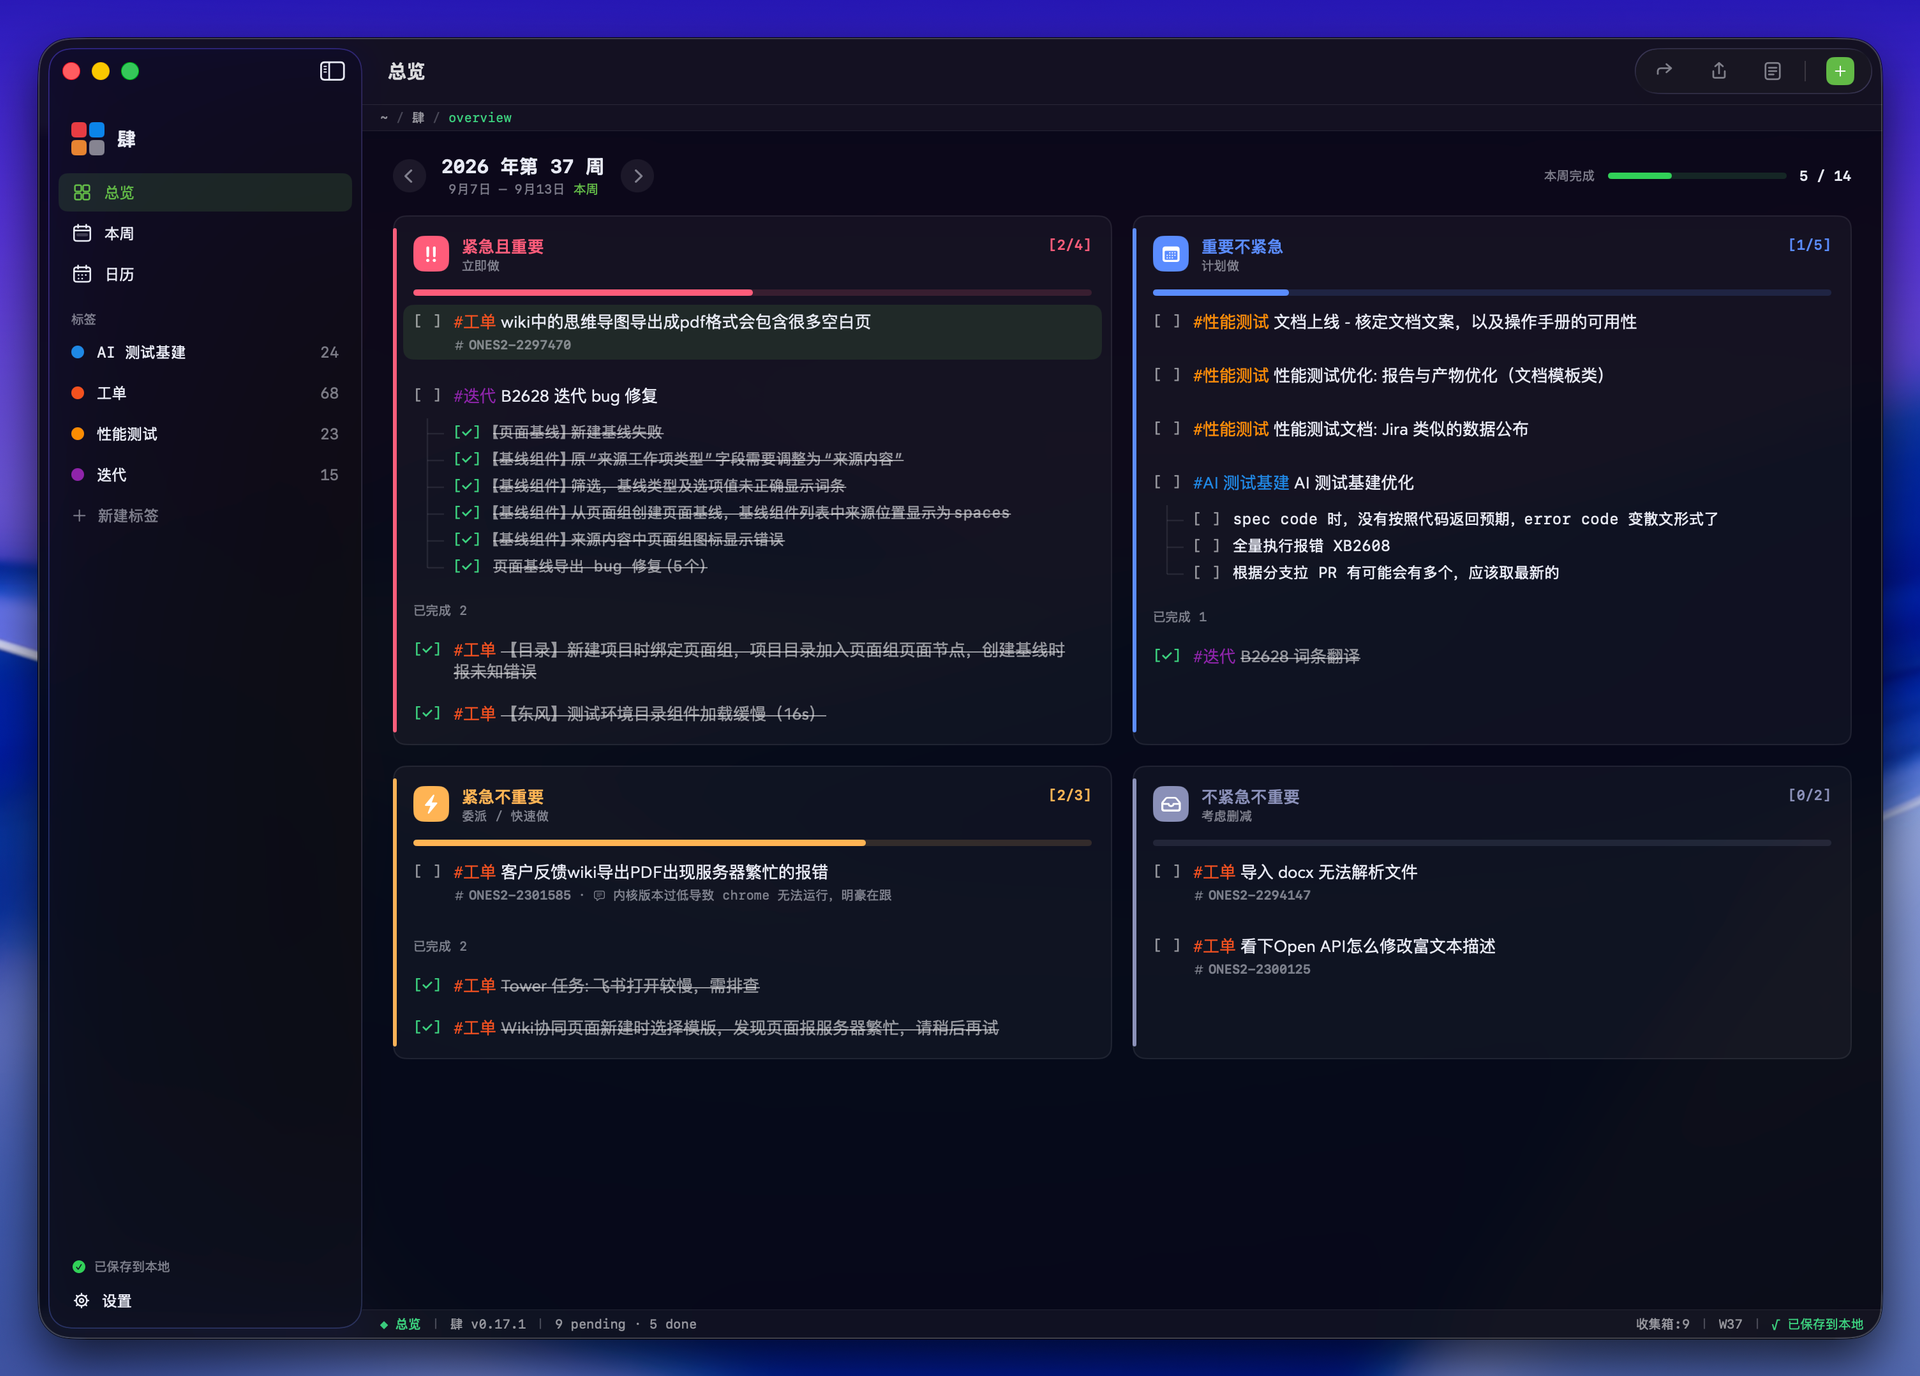
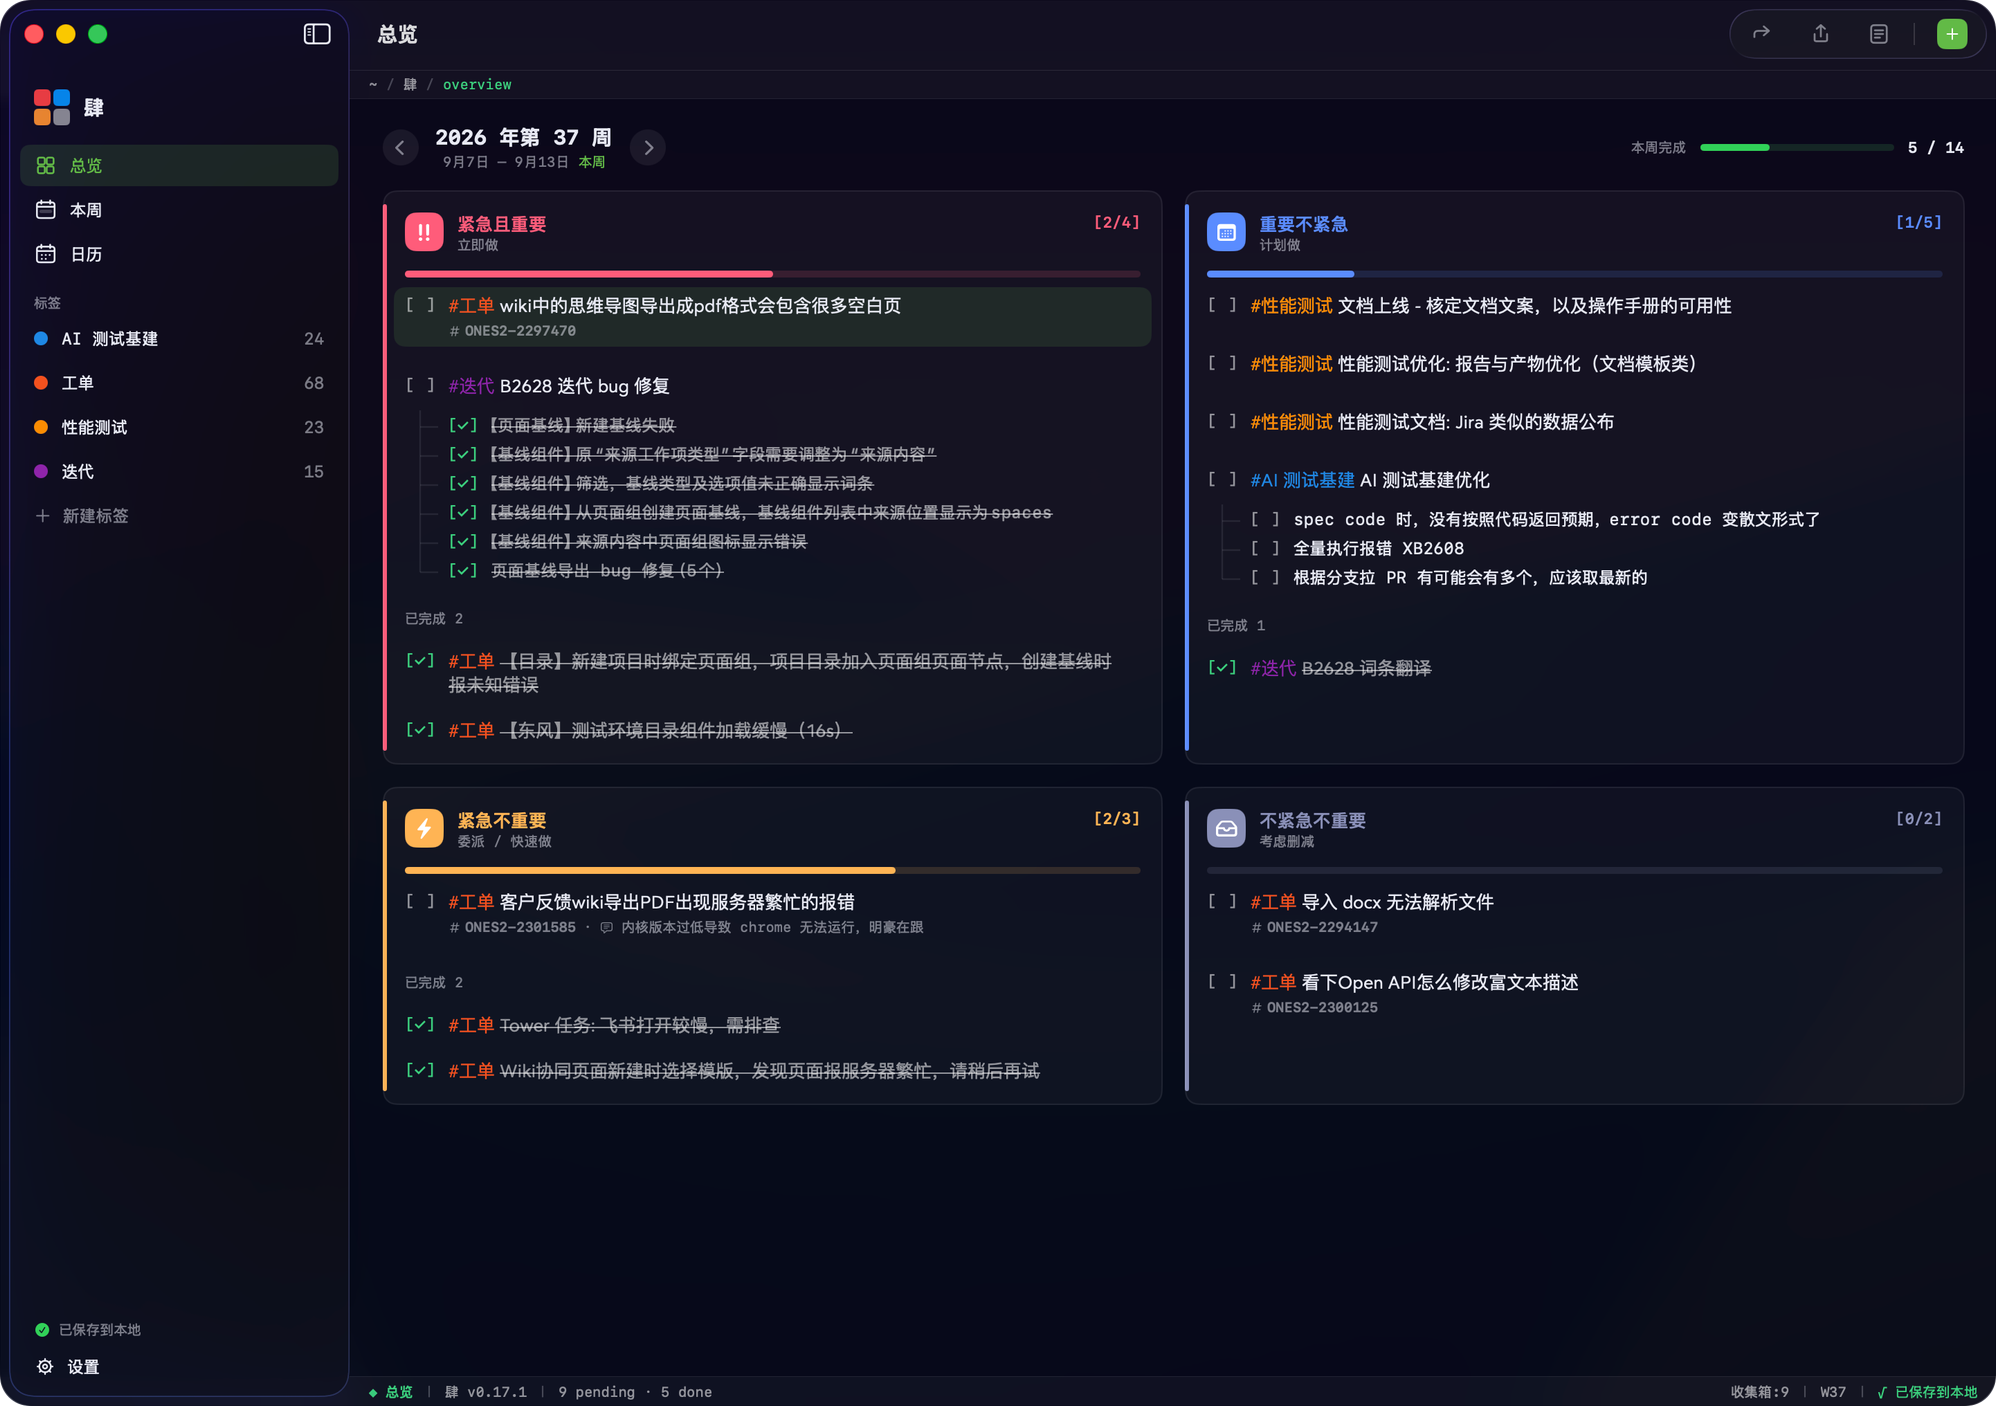
Blend the FourQuadrants screenshot into the page
The previous shot carried a band of desktop wallpaper around the window,
which read as a foreign rectangle dropped onto the page rather than part
of it.

Use a window-only capture, trim the 2px of wallpaper still clinging to
the straight edges, and bake transparent rounded corners into the PNG at
the window's own 30px radius so the page background shows through. Drop
the CSS border and the tinted glow: the window already has a light edge
of its own, and a second frame around it defeated the point.

Claude-Session: https://claude.ai/code/session_019sVusmNkSb2DnkZsBdWH7Y

Changed region(s): [[0.0, 0.0, 1.0, 1.0], [0.1875, 0.5625, 0.7812, 0.7812], [0.5938, 0.4375, 0.7188, 0.5]]

diff --git a/src/styles/global.css b/src/styles/global.css
@@ -306,16 +306,13 @@ main { display: block; padding-bottom: 96px; }
 .shot { margin: 0 auto; max-width: 960px; }
 .shot img {
   width: 100%; height: auto;
-  border-radius: var(--r);
-  border: 1px solid var(--line-2);
-  background: var(--bg-1);
-  box-shadow:
-    0 1px 0 rgba(255, 255, 255, .04) inset,
-    0 32px 70px -30px rgba(0, 0, 0, .95),
-    0 0 60px -30px color-mix(in srgb, var(--tone) 55%, transparent);
+  /* 图片自带透明圆角（源图 30px，缩放后约 14px），这里跟上同一条曲线 */
+  border-radius: 14px;
+  /* 不加边框：窗口自己有一圈亮边，再套一层就显得隔了 */
+  box-shadow: 0 24px 60px -32px rgba(0, 0, 0, .9);
 }
 .shot figcaption {
-  margin-top: 12px;
+  margin-top: 14px;
   font-family: var(--mono);
   font-size: 12px;
   color: var(--fg-4);
